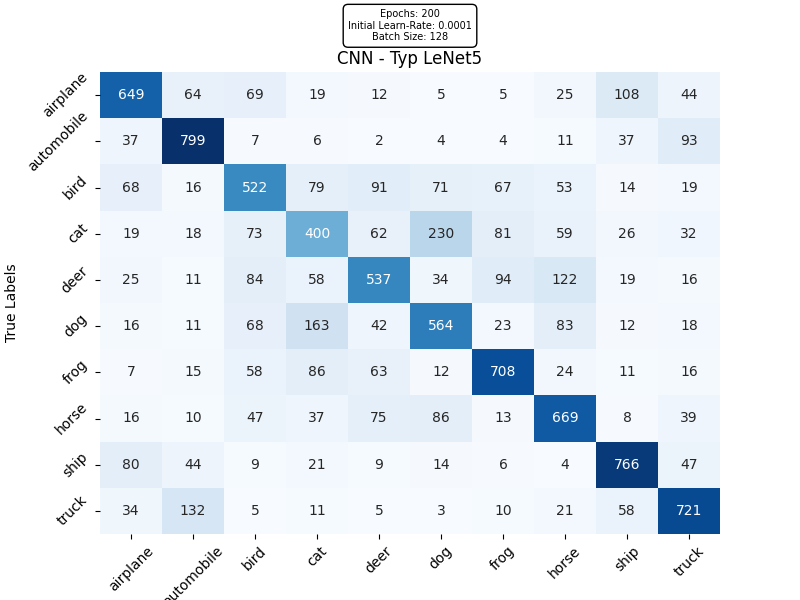
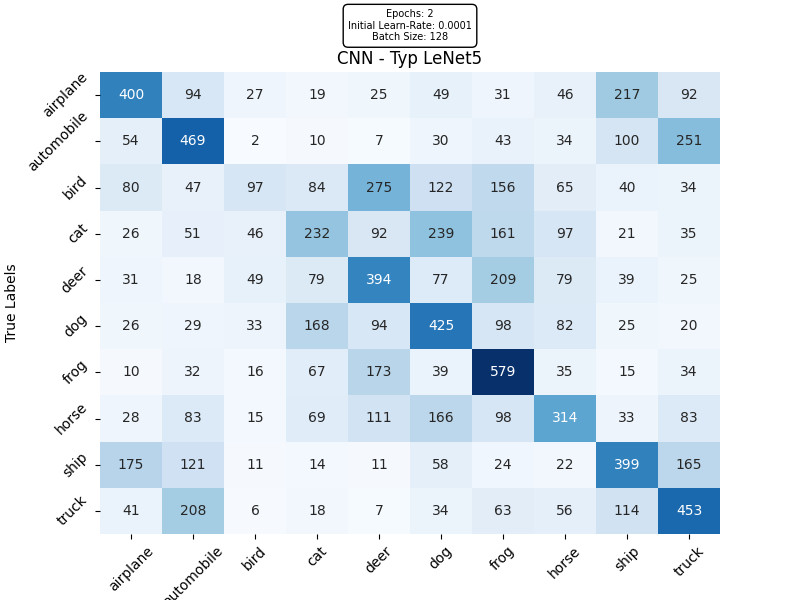
epoch run

diff --git a/cnn_cifar.py b/cnn_cifar.py
@@ -202,7 +202,7 @@ class CNN_CIFAR_Classifier:
         # Plot in ein Ordner speichern
         directory = './loss_plots'
         os.makedirs(directory, exist_ok=True)
-        plot_filename = f'TrainValLoss_cnn_cifar_{self.n_epochs}.png'
+        plot_filename = f'TrainValLoss_cnn_cifar_{self.n_epochs}-Epochs.png'
         plot_path = os.path.join(directory, plot_filename)
         plt.savefig(plot_path)
         print(f'Plot gespeichert unter {plot_path}')
@@ -225,7 +225,7 @@ class CNN_CIFAR_Classifier:
         plt.figure(figsize=(8, 6))
         sns.heatmap(self.conf_matrix, annot=True, fmt='d', cmap='Blues', cbar=False, 
                     xticklabels=class_names, yticklabels=class_names)
-        plt.title('CNN - Typ LeNet5')
+        plt.title('CNN - Cifar10')
         plt.xlabel('Predicted Labels')
         plt.ylabel('True Labels')
 
@@ -236,7 +236,7 @@ class CNN_CIFAR_Classifier:
 
         plt.xticks(rotation=45)  # Drehen Sie die Achsenbeschriftungen für bessere Lesbarkeit
         plt.yticks(rotation=45)
-        plt.savefig('./confusion_Matrices/CIFAR_Cnn_Classifier.png')  # Speichern Sie die Confusion Matrix als PNG-Datei
+        plt.savefig(f'./confusion_Matrices/CIFAR_Cnn_Classifier_{self.n_epochs}-Epochs.png')  # Speichern Sie die Confusion Matrix als PNG-Datei
         plt.show()
 
     #Methode um trainierte Gewichte eines Modells zu speichen
